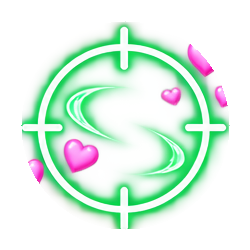
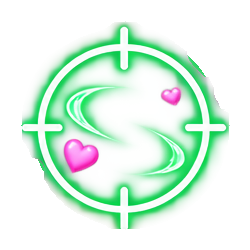
mole v818: 리듬팡 타겟4 바깥 하트 조각 제거, 결과·선택창 버튼=스코어 두더지팡 박스(색별), 화살 상승 시 뒤집힘
Claude-Session: https://claude.ai/code/session_01J1KxSabD5npHbmYBZZgZCb

Changed region(s): [[0.728, 0.168, 0.868, 0.308], [0.112, 0.616, 0.196, 0.728], [0.84, 0.336, 0.924, 0.448]]

diff --git a/mole/style.css b/mole/style.css
@@ -5245,3 +5245,18 @@ img[src$="assets/score/btn-back.png"] { filter: hue-rotate(170deg) saturate(1.35
 @keyframes rp-cue2 { from { opacity: 0.5; } to { opacity: 1; } }
 /* v817: 배경의 파란 레인 줄 삭제(사용자 지정) */
 .rp-lane { border-left: 0; background: none; }
+
+/* v818: 결과·일시정지·난이도 선택 버튼 = 스코어 화면 두더지팡 박스 그림(색만 다르게) */
+.rp-cbtn, .rp-dbtn { border: 14px solid transparent; border-radius: 0; box-shadow: none; background: none; border-image: url('assets/rhythm/box-yellow.png') 36 fill / 14px stretch;
+  color: #fff; -webkit-text-stroke: 3px #b25a00; paint-order: stroke fill; }
+.rp-cbtn { padding: 0; font-size: 1.15rem; }
+.rp-dbtn { padding: 0 6px; }
+.rp-dbtn b { -webkit-text-stroke: 4px #b25a00; }
+.rp-dbtn small { -webkit-text-stroke: 0; }
+.rp-cbtn:active, .rp-dbtn:active { transform: scale(0.97); box-shadow: none; }
+.rp-cbtn--sub { background: none; box-shadow: none; border-image-source: url('assets/rhythm/box-blue.png'); -webkit-text-stroke-color: #1c3f9a; }
+.rp-dbtn--easy { background: none; }
+.rp-dbtn--normal { background: none; border-image-source: url('assets/rhythm/box-green.png'); }
+.rp-dbtn--normal b { -webkit-text-stroke-color: #12702e; }
+.rp-dbtn--hard { background: none; border-image-source: url('assets/rhythm/box-red.png'); }
+.rp-dbtn--hard b { -webkit-text-stroke-color: #9a1208; }

diff --git a/mole/index.html b/mole/index.html
@@ -820,7 +820,7 @@
       <div id="lane-button-bar">
         <!-- 배포 버전 표식(스크린샷으로 어느 버전인지 확인용) — 화면 좌하단에 두면 다른 UI에
              가려 잘 안 보인다는 사용자 지적으로, 하트 아이콘(다이얼패드 1번 칸) 바로 위로 이동. -->
-        <div id="build-tag" aria-hidden="true">v817</div>
+        <div id="build-tag" aria-hidden="true">v818</div>
         <!-- 피버타임(터치캐치 보너스타임) 전광판 — 버튼보드 자리를 통째로 덮는 오버레이,
              평소엔 hidden, 피버 중에만 콤보/잔여시간 표시(사용자 지정: "전광판처럼"). -->
         <div id="fever-scoreboard" class="fever-scoreboard" hidden>
@@ -1054,7 +1054,7 @@ window.FGH.rollOut = function (el, done) {
       } else {
         // ?v= 로 매 배포마다 URL을 바꿔서 GitHub Pages의 sw.js 캐시(max-age=600)를 무조건 우회 —
         // 안 그러면 배포 직후에도 최대 10분간 옛 서비스워커가 안 갈리는 경우가 있었음(사용자 보고).
-        navigator.serviceWorker.register('sw.js?v=817').catch(function () {});
+        navigator.serviceWorker.register('sw.js?v=818').catch(function () {});
       }
     });
   }

diff --git a/mole/js/rhythm.js b/mole/js/rhythm.js
@@ -149,7 +149,7 @@
       if (t < n.spawnTime) {
         var u = 1 - (n.spawnTime - t) / LAUNCH, x0 = n.pts[0][0], hx = x0 + (L.W / 2 - x0) * 0.55, hy = L.horizonY;
         return { x: hx + (x0 - hx) * u, y: hy + (n.pts[0][1] - hy) * (1 - (1 - u) * (1 - u)), sc: 0.22 + 0.78 * u,
-          rot: spin ? -(n.spawnTime - t) * 1080 : 0, op: Math.min(1, u * 3) };
+          rot: spin ? -(n.spawnTime - t) * 1080 : n.weaponType === 'heart' ? 180 * Math.min(1, (1 - u) / 0.2) : 0, op: Math.min(1, u * 3) }; // 화살: 올라갈 땐 뒤집혀(촉 위) 꼭대기에서 돌아 촉 아래로(v818)
       }
       var p = posAt(n, t);
       return { x: p.x, y: p.y, sc: 1, rot: spin ? (t - n.spawnTime) * 240 : 0, op: 1 };

diff --git a/mole/sw.js b/mole/sw.js
@@ -3,7 +3,7 @@
 // 폴백 전용으로만 갱신한다. (예전엔 stale-while-revalidate라 배포해도 "다음 실행"에야
 // 반영돼 사용자 체감 대기가 길었음 — 온라인=항상 최신, 오프라인=마지막 캐시로 변경.)
 // SHELL 목록 자체가 바뀔 때만 CACHE 를 올린다.
-const CACHE = 'mole-game-v817';
+const CACHE = 'mole-game-v818';
 
 // 화면별 BGM(audio/bgm-*.mp3)은 v275 부터 SHELL 에 포함 — 기본 켜짐(v272)이라 항상 필요하고,
 // 캐시가 안 돼 있으면 오프라인/느린망에서 재생 실패했음.
